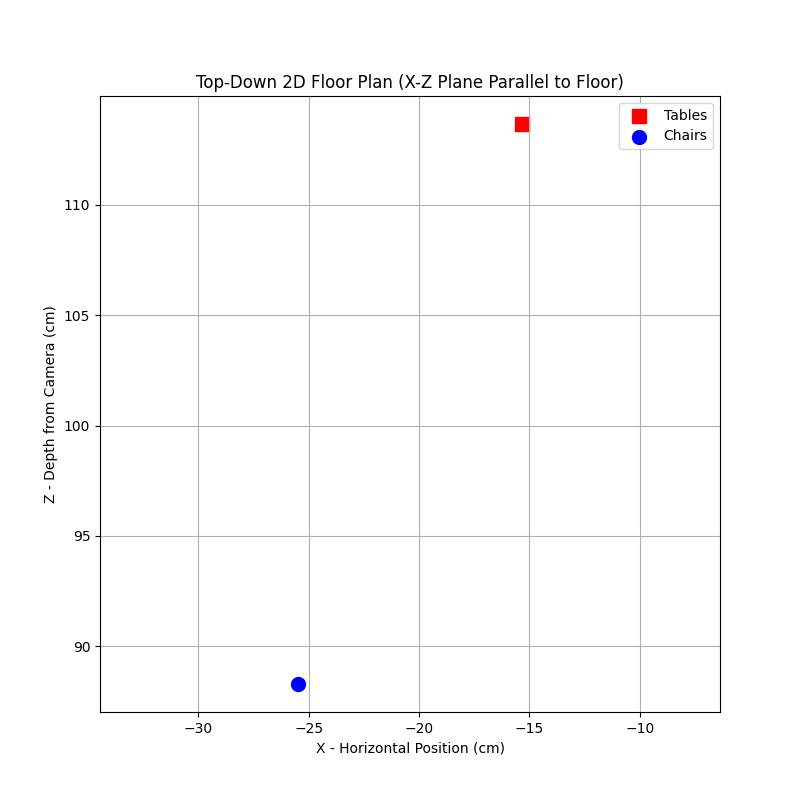
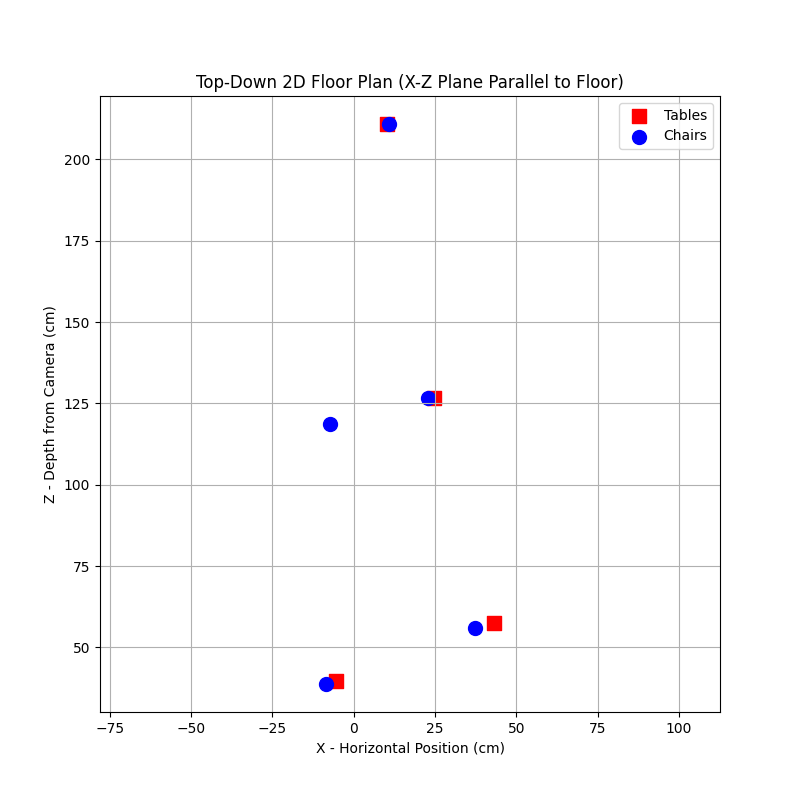
week-8

diff --git a/week-8/stereo_mapper.py b/week-8/stereo_mapper.py
@@ -62,7 +62,7 @@ class StereoMapper:
         
         return (X, Y, Z)
 
-    def gui_loop(self, left_path, right_path):
+    def gui_loop(self, left_path, right_path, points_file="points.json"):
         self.img_left = cv2.imread(left_path)
         self.img_right = cv2.imread(right_path)
         
@@ -86,6 +86,28 @@ class StereoMapper:
             self.cy *= scale_y
             print(f"    New params: fx={self.focal_length_px:.2f}, cx={self.cx:.2f}, cy={self.cy:.2f}")
 
+        # --- AUTO LOAD MULTIPLE POINTS IF EXISTS ---
+        if os.path.exists(points_file):
+            print(f"\n[*] Found {points_file}! Auto-loading points to bypass manual clicking...")
+            with open(points_file, "r") as f:
+                data = json.load(f)
+            
+            for item in data:
+                pt_left = item["pt_left"]
+                pt_right = item["pt_right"]
+                obj_type = item["type"]
+                pt_3d = self.compute_3d_point(pt_left, pt_right)
+                
+                if obj_type == "table":
+                    self.tables.append(pt_3d)
+                else:
+                    self.chairs.append(pt_3d)
+                
+                print(f"Loaded {obj_type} at 3D location (X={pt_3d[0]:.2f}, Y={pt_3d[1]:.2f}, Z={pt_3d[2]:.2f} cm)")
+            
+            self.plot_results()
+            return
+
         print("\n=== Stereo Mapper CLI ===")
         print("Instructions:")
         print("1. We will prompt you to select an object type in the terminal.")
@@ -95,6 +117,7 @@ class StereoMapper:
         print("5. Click on the SAME EXACT POINT on the object in the RIGHT image.")
         print("=========================\n")
         
+        saved_points = []
         while True:
             choice = input("Enter 't' for Table, 'c' for Chair, or 'q' to compute & quit: ").strip().lower()
             
@@ -174,7 +197,20 @@ class StereoMapper:
             else:
                 self.chairs.append(pt_3d)
                 
+            saved_points.append({
+                "type": "table" if choice == 't' else "chair",
+                "pt_left": pt_left,
+                "pt_right": pt_right
+            })
+                
             print(f"Added {obj_type} at 3D location (X={pt_3d[0]:.2f}, Y={pt_3d[1]:.2f}, Z={pt_3d[2]:.2f} cm)")
+            
+        # Save points for future runs
+        if saved_points:
+            with open(points_file, "w") as f:
+                json.dump(saved_points, f, indent=4)
+            print(f"\nSaved {len(saved_points)} points to '{points_file}'!")
+            print("Next time you run this script, it will auto-load these points instead of asking you to click.")
             
         # Plotting
         self.plot_results()
